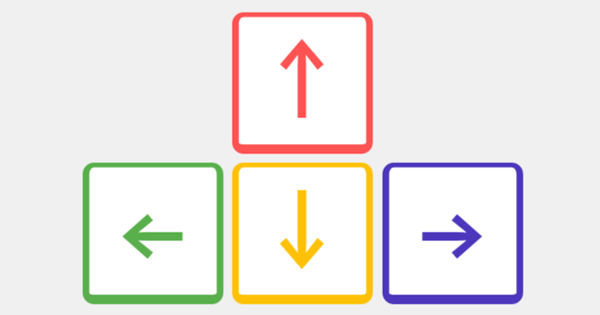
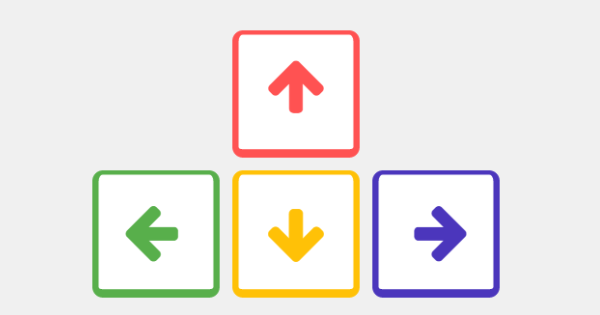
Added font-awesome and replaced arrows by FA's arrows

Changed region(s): [[0.12, 0.0286, 0.9, 0.9714], [0.45, 0.6, 0.54, 0.8571]]

diff --git a/src/scss/_mixins.scss b/src/scss/_mixins.scss
@@ -1,34 +1,47 @@
 @mixin key($direction, $_size:$key_size, $_border_size:3px) {
-  @if ($direction == "left") {
-    border-color: $left_color;
-    color: $left_color;
-    content: "\2190";
-  } @else if ($direction == "up") {
-    border-color: $up_color;
-    color: $up_color;
-    content: "\2191";
-  }  @else if ($direction == "right") {
-    border-color: $right_color;
-    color: $right_color;
-    content: "\2192";
-  }  @else if ($direction == "down") {
-    border-color: $down_color;
-    color: $down_color;
-    content: "\2193";
-  } @else {
-    border-color: transparent;
-  }
-
+  font: normal normal normal ($_size * 0.5)/1 FontAwesome;
+  text-rendering: auto;
+  -webkit-font-smoothing: antialiased;
+  -moz-osx-font-smoothing: grayscale;
+  transform: translate(0, 0);
   position: absolute;
-  font-family: monospace;
-  font-size: $_size * 0.8;
   text-align: center;
   display: block;
-  width: $_size - 2 * $_border_size;
-  height: $_size - 2 * $_border_size;
   transform-origin: 50% 50%;
   line-height: $_size - 2 * $_border_size;
+  width: $_size - 2 * $_border_size;
+  height: $_size - 2 * $_border_size;
   border-radius: 5px;
   border-style: solid;
   border-width: ($_border_size - 1px) $_border_size ($_border_size + 1px) $_border_size;
+
+  @if ($direction == "left") {
+    border-color: $left_color;
+    color: $left_color;
+    content: "\f060";
+    padding-right: 5px;
+    width: $_size - 2 * $_border_size - 5px;
+  } @else if ($direction == "up") {
+    border-color: $up_color;
+    color: $up_color;
+    content: "\f062";
+    padding-bottom: 5px;
+    line-height: $_size - 2 * $_border_size - 5px;
+    height: $_size - 2 * $_border_size - 5px;
+  }  @else if ($direction == "right") {
+    border-color: $right_color;
+    color: $right_color;
+    content: "\f061";
+    padding-left: 5px;
+    width: $_size - 2 * $_border_size - 5px;
+  }  @else if ($direction == "down") {
+    border-color: $down_color;
+    color: $down_color;
+    content: "\f063";
+    padding-top: 5px;
+    line-height: $_size - 2 * $_border_size - 5px;
+    height: $_size - 2 * $_border_size - 5px;
+  } @else {
+    border-color: transparent;
+  }
 }

diff --git a/app/index.html b/app/index.html
@@ -5,6 +5,7 @@
     <title>Arrow hero</title>
     <link rel="stylesheet" href="dist/css/main.min.css"/>
     <link rel="shortcut icon" type="image/x-icon" href="favicon.png"/>
+    <link rel="stylesheet" href="//maxcdn.bootstrapcdn.com/font-awesome/4.3.0/css/font-awesome.min.css">
 
     <meta name="viewport" content="width=device-width, initial-scale=1.0, maximum-scale=1.0, user-scalable=no" />
     <meta name="theme-color" content="#FF3232">
@@ -82,7 +83,7 @@
 </div>
 
 <div class="about">
-    <h2>About this game</h2>
+    <h2><i class="fa fa-info-circle"></i> About this game</h2>
     <p>
         <span class="prim">Arrow hero</span> is a minimalist game where your
         goal is to match your <span class="sec">inputs</span> with the <span class="third">unstoppable continuous overwelming
@@ -95,7 +96,7 @@
     <p>
         You win when you managed to make a score you are proud of.
     </p>
-    <h2>Sharing is caring</h2>
+    <h2><i class="fa fa-share-alt"></i> Sharing is caring</h2>
     <p>If you liked this game, share it with your friends!</p>
     <div class="share">
         <div class="fb-share-button" data-layout="button"></div>
@@ -103,9 +104,9 @@
         <a href="//www.reddit.com/submit" class="reddit-share-button" onclick="window.location = '//www.reddit.com/submit?url=' + encodeURIComponent(window.location); return false"> <img src="//www.redditstatic.com/spreddit7.gif" alt="submit to reddit" border="0" /> </a>
     </div>
     <p class="tiny">That would be very kind.</p>
-    <h2>Steal this game</h2>
+    <h2><i class="fa fa-check-circle"></i> Steal this game</h2>
     <p>
-        Feel free to <a href="https://github.com/AcelisWeaven/arrow-hero">fork me on GitHub</a>.
+        Feel free to <a href="https://github.com/AcelisWeaven/arrow-hero">fork me on <i class="fa fa-github"></i> GitHub</a>.
     </p>
 </div>
 
